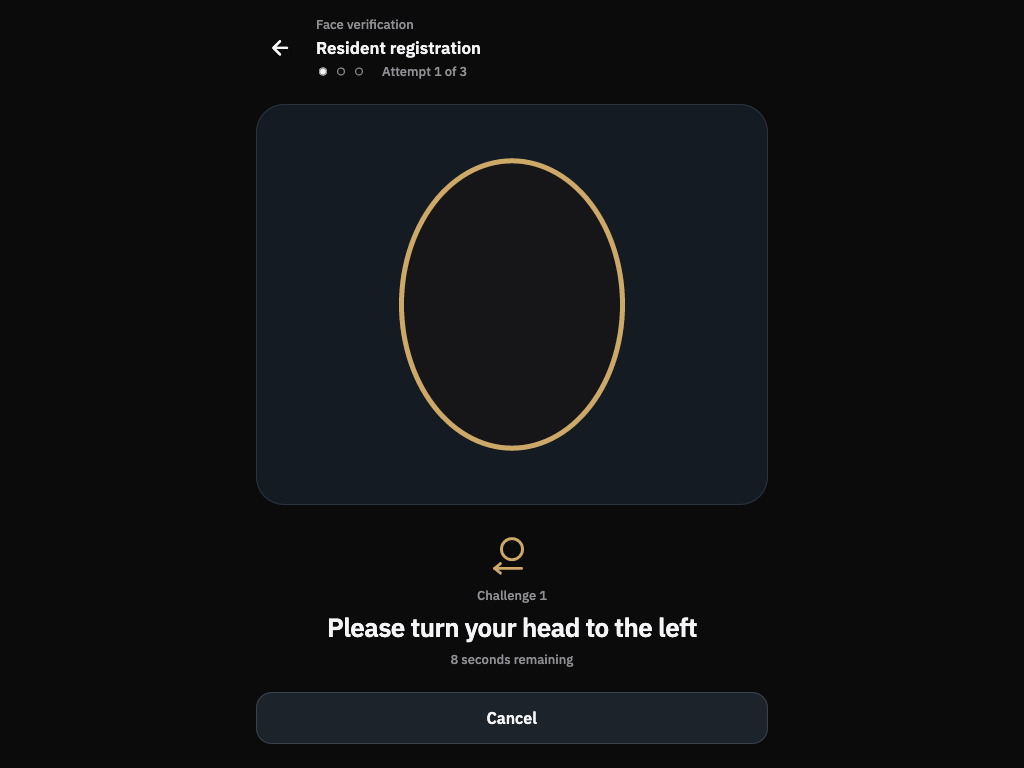
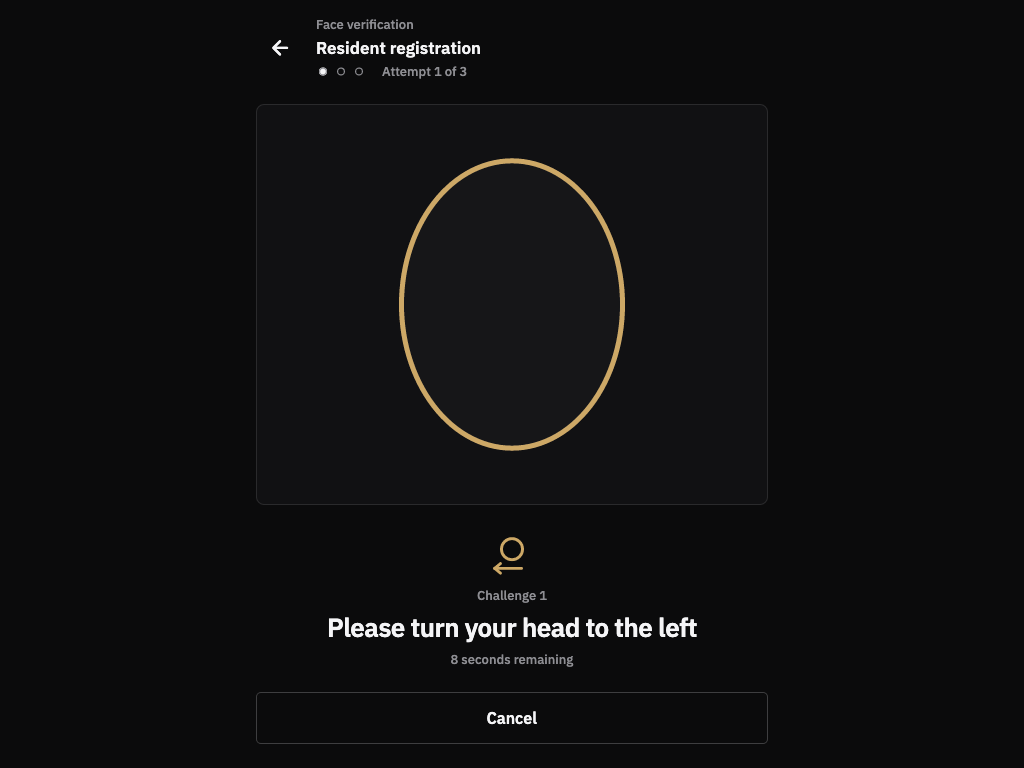
feat(ui): match face liveness to the Desktop ink theme
Accent primary button with white label, transparent outlined secondary,
ink-1 camera panel with an 8px hairline frame, 5px button radius, ink-3
back button, badge-style offline indicator. Layout, copy, states and the
privacy rules are unchanged.

Changed region(s): [[0.25, 0.875, 0.75, 0.9688]]

diff --git a/lib/ui/face_liveness/widgets/liveness_controls.dart b/lib/ui/face_liveness/widgets/liveness_controls.dart
@@ -24,7 +24,7 @@ class LivenessPillButton extends StatelessWidget {
   @override
   Widget build(BuildContext context) {
     final shape =
-        RoundedRectangleBorder(borderRadius: BorderRadius.circular(16));
+        RoundedRectangleBorder(borderRadius: BorderRadius.circular(LivenessTheme.radius));
     const size = Size.fromHeight(LivenessTheme.buttonHeight);
     if (primary) {
       return ElevatedButton(
@@ -33,8 +33,9 @@ class LivenessPillButton extends StatelessWidget {
           minimumSize: size,
           shape: shape,
           elevation: 0,
-          backgroundColor: LivenessTheme.text,
-          foregroundColor: LivenessTheme.background,
+          // Desktop primary: accent fill, white label.
+          backgroundColor: LivenessTheme.accent,
+          foregroundColor: LivenessTheme.onAccent,
           textStyle: LivenessTheme.button,
         ),
         child: Text(label),
@@ -46,8 +47,8 @@ class LivenessPillButton extends StatelessWidget {
         minimumSize: size,
         shape: shape,
         foregroundColor: LivenessTheme.text,
-        side: const BorderSide(color: Color(0xFF39424E)),
-        backgroundColor: const Color(0xFF1C232B),
+        side: const BorderSide(color: LivenessTheme.lineStrong),
+        backgroundColor: Colors.transparent,
         textStyle: LivenessTheme.button,
       ),
       child: Text(label),
@@ -114,8 +115,8 @@ class OfflineIndicator extends StatelessWidget {
     return Container(
       padding: const EdgeInsets.symmetric(horizontal: 8, vertical: 3),
       decoration: BoxDecoration(
-        borderRadius: BorderRadius.circular(12),
-        border: Border.all(color: const Color(0x99A5AEB8)),
+        borderRadius: BorderRadius.circular(LivenessTheme.radiusBadge),
+        border: Border.all(color: LivenessTheme.lineStrong),
       ),
       child: Row(mainAxisSize: MainAxisSize.min, children: <Widget>[
         const Icon(Icons.cloud_off_outlined, size: 14, color: LivenessTheme.textSecondary),

diff --git a/lib/ui/face_liveness/face_liveness_screen.dart b/lib/ui/face_liveness/face_liveness_screen.dart
@@ -277,10 +277,11 @@ class FaceLivenessScreenState extends State<FaceLivenessScreen> {
                                   padding:
                                       const EdgeInsets.symmetric(vertical: 20),
                                   decoration: BoxDecoration(
-                                    color: const Color(0xFF141B23),
-                                    borderRadius: BorderRadius.circular(28),
+                                    color: LivenessTheme.panel,
+                                    borderRadius: BorderRadius.circular(
+                                        LivenessTheme.radiusLg),
                                     border: Border.all(
-                                        color: const Color(0xFF293440)),
+                                        color: LivenessTheme.line),
                                   ),
                                   child: Center(
                                       child: LivenessOval(
@@ -342,7 +343,7 @@ class FaceLivenessScreenState extends State<FaceLivenessScreen> {
             child: IconButton(
               tooltip: 'Back',
               style: IconButton.styleFrom(
-                  backgroundColor: const Color(0xFF1C232B)),
+                  backgroundColor: LivenessTheme.raised),
               icon: const Icon(Icons.arrow_back_rounded,
                   color: LivenessTheme.text),
               onPressed: _cancel,

diff --git a/lib/ui/face_liveness/liveness_theme.dart b/lib/ui/face_liveness/liveness_theme.dart
@@ -14,9 +14,11 @@ class LivenessTheme {
 
   // Desktop "ink" theme (website/ :root), see docs/ui/design-system.md.
   static const Color background = Color(0xFF0B0B0C); // ink-0
+  static const Color panel = Color(0xFF111113); // ink-1, camera panel
   static const Color ovalFill = Color(0xFF161618); // ink-2
   static const Color raised = Color(0xFF1C1C1F); // ink-3
   static const Color line = Color(0x1CF5F5F7); // line-on-ink, 11%
+  static const Color lineStrong = Color(0x38F5F5F7); // 22%, outlined buttons
   static const Color text = Color(0xFFF5F5F7); // fg-on-ink
   static const Color textSecondary = Color(0xFF8E8E93); // mute-on-ink
 
@@ -35,6 +37,8 @@ class LivenessTheme {
   static const double gutter = 24;
   static const double gap = 12;
   static const double radius = 5;
+  static const double radiusLg = 8;
+  static const double radiusBadge = 3;
   static const double buttonHeight = 52;
   static const double minTouchTarget = 48;
   static const double maxContentWidth = 560;
